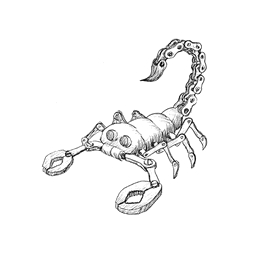
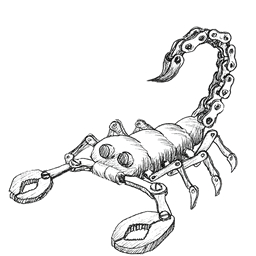
Rejected Draft v0.8731
* fixed new sketch to be Scrap instead of Rough
* tweaks to All Art Exhibit page
* added additional sketches for:
  *  Cat-Ear Girl

Changed region(s): [[0.0312, 0.0938, 0.9375, 1.0]]

diff --git a/rejected_draft/all_art_exhibit.html b/rejected_draft/all_art_exhibit.html
@@ -7,10 +7,10 @@
   <meta name="viewport" content="width=device-width, initial-scale=1.0" />
   <meta name="description" content="A full reference exhibit of Rejected Draft sketch art versions and artist credits." />
   <title>All Art Exhibit | Rejected Draft</title>
-  <script type="module" crossorigin src="/rejected_draft/assets/all_art_exhibit-DHjlpOYw.js"></script>
-  <link rel="modulepreload" crossorigin href="/rejected_draft/assets/artistLinks-D57jD4-Z.js">
+  <script type="module" crossorigin src="/rejected_draft/assets/all_art_exhibit-CifY37Fp.js"></script>
+  <link rel="modulepreload" crossorigin href="/rejected_draft/assets/artistLinks-Ci6iL28V.js">
   <link rel="stylesheet" crossorigin href="/rejected_draft/assets/artistLinks-BkC4TFmO.css">
-  <link rel="stylesheet" crossorigin href="/rejected_draft/assets/all_art_exhibit-M2AhFo1B.css">
+  <link rel="stylesheet" crossorigin href="/rejected_draft/assets/all_art_exhibit-BFmMpooR.css">
 </head>
 
 <body>

diff --git a/rejected_draft/index.html b/rejected_draft/index.html
@@ -24,8 +24,8 @@
     gtag('config', 'G-H7T7HJ1VSM');
   </script>
   <title>Rejected Draft</title>
-  <script type="module" crossorigin src="/rejected_draft/assets/main-CnqVbCoy.js"></script>
-  <link rel="modulepreload" crossorigin href="/rejected_draft/assets/artistLinks-D57jD4-Z.js">
+  <script type="module" crossorigin src="/rejected_draft/assets/main-CNIFlPIz.js"></script>
+  <link rel="modulepreload" crossorigin href="/rejected_draft/assets/artistLinks-Ci6iL28V.js">
   <link rel="stylesheet" crossorigin href="/rejected_draft/assets/artistLinks-BkC4TFmO.css">
   <link rel="stylesheet" crossorigin href="/rejected_draft/assets/main-BZV40eAE.css">
 </head>

diff --git a/rejected_draft/assets/all_art_exhibit-BFmMpooR.css b/rejected_draft/assets/all_art_exhibit-BFmMpooR.css
@@ -1,0 +1,1 @@
+.all-art-exhibit{height:100vh;min-height:100vh;overflow-y:auto;background:#f5f5f5;color:#171717}.exhibit-shell{width:min(100%,1440px);margin:0 auto;padding:18px}.exhibit-heading{display:flex;align-items:center;justify-content:space-between;gap:16px;margin-bottom:14px}.exhibit-title{margin:0;font-family:Architects Daughter,Inter,ui-sans-serif,system-ui,sans-serif;font-size:clamp(1.75rem,3vw,3rem);line-height:1;letter-spacing:0}.exhibit-style-picker{display:flex;flex-wrap:wrap;justify-content:flex-end;gap:6px}.exhibit-style-picker button{min-height:34px;border:1px solid #d4d4d4;background:#fff;color:#404040;padding:7px 10px;font-size:.75rem;font-weight:900;text-transform:uppercase;cursor:pointer}.exhibit-style-picker button:hover,.exhibit-style-picker button:focus-visible{border-color:#737373;outline:none}.exhibit-style-picker button.active{border-color:#0f766e;background:#0f766e;color:#fff}.exhibit-style-dark-original .exhibit-style-picker button.active,.exhibit-style-dark-inverted .exhibit-style-picker button.active,.exhibit-style-blueprint .exhibit-style-picker button.active,.exhibit-style-ember .exhibit-style-picker button.active{border-color:#14b8a6;background:#0f766e;color:#fff}.exhibit-controls{display:grid;grid-template-columns:minmax(180px,1fr) minmax(180px,1fr) minmax(140px,180px) minmax(140px,180px) auto;gap:10px;align-items:end;margin-bottom:14px;padding:12px;border:1px solid #d4d4d4;background:#fff}.exhibit-counts{display:grid;grid-template-columns:repeat(2,minmax(74px,1fr));gap:8px}.exhibit-count{border:1px solid #d4d4d4;background:#fafafa;padding:8px 10px}.exhibit-count strong{display:block;font-size:1.45rem;line-height:1}.exhibit-count span{display:block;margin-top:3px;color:#737373;font-size:.68rem;font-weight:800;text-transform:uppercase}.exhibit-field{display:grid;gap:4px}.exhibit-field span{color:#737373;font-size:.68rem;font-weight:900;letter-spacing:.04em;text-transform:uppercase}.exhibit-field input,.exhibit-field select{width:100%;height:42px;border:1px solid #d4d4d4;background:#fff;color:#171717;padding:0 10px;font:inherit;font-size:.9rem;font-weight:650;outline:none}.exhibit-field input:focus,.exhibit-field select:focus{border-color:#0f766e;box-shadow:0 0 0 2px #0f766e2e}.exhibit-grid{display:grid;grid-auto-flow:dense;grid-template-columns:repeat(4,minmax(0,1fr));gap:12px;align-items:start}.exhibit-sketch{grid-column:span var(--span-desktop);border:1px solid #d4d4d4;background:#fff}.exhibit-sketch-header{display:flex;align-items:baseline;justify-content:space-between;gap:10px;padding:12px;border-bottom:1px solid #e5e5e5}.exhibit-sketch-header h2{margin:0;color:#171717;font-size:1.1rem;font-weight:950;line-height:1;text-transform:uppercase}.exhibit-sketch-header span{flex:0 0 auto;color:#737373;font-size:.68rem;font-weight:900;text-transform:uppercase}.exhibit-versions{display:grid;grid-template-columns:repeat(var(--inner-desktop),minmax(0,1fr));gap:10px;padding:10px}.exhibit-version{display:grid;grid-template-rows:auto 1fr;border:1px solid #e5e5e5;background:#fafafa}.exhibit-image{aspect-ratio:1;background:#e5e5e5;padding:12px}.exhibit-image img{width:100%;height:100%;-o-object-fit:contain;object-fit:contain;mix-blend-mode:multiply}.exhibit-style-dark-original{background:#111716}.exhibit-style-dark-original .exhibit-title,.exhibit-style-dark-inverted .exhibit-title,.exhibit-style-blueprint .exhibit-title,.exhibit-style-ember .exhibit-title{color:#f5f5f5}.exhibit-style-dark-original .exhibit-controls,.exhibit-style-dark-original .exhibit-sketch,.exhibit-style-dark-original .exhibit-empty{border-color:#33403d;background:#1b2422}.exhibit-style-dark-original .exhibit-sketch-header,.exhibit-style-dark-original .exhibit-version,.exhibit-style-dark-original .exhibit-count,.exhibit-style-dark-original .exhibit-field input,.exhibit-style-dark-original .exhibit-field select,.exhibit-style-dark-original .exhibit-style-picker button{border-color:#33403d;background:#121817;color:#f5f5f5}.exhibit-style-dark-original .exhibit-sketch-header h2,.exhibit-style-dark-original .exhibit-credit-name{color:#f5f5f5}.exhibit-style-dark-original .exhibit-image{background:#f5f5f5}.exhibit-style-dark-original .exhibit-credit p{color:#c7d0cc}.exhibit-style-dark-original .exhibit-image img{mix-blend-mode:multiply}.exhibit-style-dark-inverted{background:#09090b}.exhibit-style-dark-inverted .exhibit-controls,.exhibit-style-dark-inverted .exhibit-sketch,.exhibit-style-dark-inverted .exhibit-empty{border-color:#262626;background:#171717}.exhibit-style-dark-inverted .exhibit-sketch-header,.exhibit-style-dark-inverted .exhibit-version,.exhibit-style-dark-inverted .exhibit-count,.exhibit-style-dark-inverted .exhibit-field input,.exhibit-style-dark-inverted .exhibit-field select,.exhibit-style-dark-inverted .exhibit-style-picker button{border-color:#333;background:#0f0f0f;color:#f5f5f5}.exhibit-style-dark-inverted .exhibit-sketch-header h2,.exhibit-style-dark-inverted .exhibit-credit-name{color:#f5f5f5}.exhibit-style-dark-inverted .exhibit-credit p{color:#c7c7c7}.exhibit-style-dark-inverted .exhibit-image{background:#050505}.exhibit-style-dark-inverted .exhibit-image img{filter:invert(1) hue-rotate(180deg) brightness(.95);mix-blend-mode:screen}.exhibit-style-blueprint{background:#07131f}.exhibit-style-blueprint .exhibit-controls,.exhibit-style-blueprint .exhibit-sketch,.exhibit-style-blueprint .exhibit-empty{border-color:#1e5a78;background:#0b2030}.exhibit-style-blueprint .exhibit-sketch-header,.exhibit-style-blueprint .exhibit-version,.exhibit-style-blueprint .exhibit-count,.exhibit-style-blueprint .exhibit-field input,.exhibit-style-blueprint .exhibit-field select,.exhibit-style-blueprint .exhibit-style-picker button{border-color:#1e5a78;background:#081826;color:#dff7ff}.exhibit-style-blueprint .exhibit-sketch-header h2,.exhibit-style-blueprint .exhibit-credit-name{color:#e8fbff}.exhibit-style-blueprint .exhibit-credit p{color:#b5dfec}.exhibit-style-blueprint .exhibit-image{background:#07131f}.exhibit-style-blueprint .exhibit-image img{filter:invert(1) sepia(1) saturate(4) hue-rotate(155deg) brightness(1.4) contrast(1.15);mix-blend-mode:screen}.exhibit-style-ember{background:#1c1110}.exhibit-style-ember .exhibit-controls,.exhibit-style-ember .exhibit-sketch,.exhibit-style-ember .exhibit-empty{border-color:#704431;background:#261714}.exhibit-style-ember .exhibit-sketch-header,.exhibit-style-ember .exhibit-version,.exhibit-style-ember .exhibit-count,.exhibit-style-ember .exhibit-field input,.exhibit-style-ember .exhibit-field select,.exhibit-style-ember .exhibit-style-picker button{border-color:#704431;background:#160d0b;color:#fff0dc}.exhibit-style-ember .exhibit-sketch-header h2,.exhibit-style-ember .exhibit-credit-name{color:#fff0dc}.exhibit-style-ember .exhibit-credit p{color:#e9c9aa}.exhibit-style-ember .exhibit-image{background:#180c08}.exhibit-style-ember .exhibit-image img{filter:invert(1) sepia(1) saturate(3) hue-rotate(330deg) brightness(1.15) contrast(1.25);mix-blend-mode:screen}.exhibit-credit{display:grid;gap:6px;align-content:start;min-height:94px;padding:10px}.exhibit-credit p{margin:0;color:#525252;font-family:Crimson Text,Georgia,serif;font-size:.875rem;font-style:italic;line-height:1.25}.exhibit-credit-label{color:#a3a3a3;font-size:.64rem;font-weight:950;letter-spacing:.08em;text-transform:uppercase}.exhibit-credit-name,.exhibit-credit a{display:inline;color:#171717;overflow-wrap:anywhere;font-size:1rem;font-weight:950;font-style:italic;line-height:1.1}.exhibit-credit a{color:#0369a1;text-decoration:underline;text-decoration-color:#0369a159;text-underline-offset:3px}.exhibit-credit a:hover,.exhibit-credit a:focus-visible{color:#0c4a6e;outline:none}.exhibit-empty{border:1px solid #d4d4d4;background:#fff;padding:42px 20px;text-align:center}.exhibit-empty h2{margin:0;font-size:1.2rem;font-weight:950;text-transform:uppercase}.exhibit-empty p{margin:6px 0 0;color:#737373}@media(max-width:1180px){.exhibit-grid{grid-template-columns:repeat(3,minmax(0,1fr))}.exhibit-sketch{grid-column:span var(--span-large)}.exhibit-versions{grid-template-columns:repeat(var(--inner-large),minmax(0,1fr))}}@media(max-width:880px){.exhibit-shell{padding:12px}.exhibit-controls{grid-template-columns:1fr 1fr}.exhibit-heading{align-items:flex-start;flex-direction:column}.exhibit-style-picker{justify-content:flex-start}.exhibit-counts{grid-column:1 / -1}.exhibit-grid{grid-template-columns:repeat(2,minmax(0,1fr))}.exhibit-sketch{grid-column:span var(--span-medium)}.exhibit-versions{grid-template-columns:repeat(var(--inner-medium),minmax(0,1fr))}}@media(max-width:560px){.exhibit-controls,.exhibit-grid{grid-template-columns:1fr}.exhibit-sketch{grid-column:span 1}.exhibit-versions{grid-template-columns:1fr}}

diff --git a/rejected_draft/assets/all_art_exhibit-CifY37Fp.js b/rejected_draft/assets/all_art_exhibit-CifY37Fp.js
@@ -1,0 +1,1 @@
+import{c as o,j as e,b as A,i as C,h as E,E as T,A as k,p as L,o as I}from"./artistLinks-Ci6iL28V.js";const R=()=>{const s="/rejected_draft/";return s.endsWith("/")?s:`${s}/`},g=(s,i)=>T[s]??i,_=s=>{if(s.startsWith("data:"))return s;const i=s.startsWith("/")?s.slice(1):s;return`${R()}${i}`},m=s=>s.trim().toLowerCase(),$=new Set(["<placeholder - replace>"]),M=s=>{const i=k[s];return i&&i!==L?i:void 0},V=()=>A.map(s=>{const i=s.id.toUpperCase().replace(/\s/g,"_"),a=g(`SKETCH_${i}_NAME`,s.name),c=s.artist.map((n,d)=>{const h=g(C(s,d),s.flavorText[d]??s.flavorText[0]??""),j=_(E(s.imagePath,d,s.artist.length));return{index:d,artist:n,artistLink:M(n),flavorText:h,imageUrl:j}}).filter(n=>!$.has(n.artist));return{id:s.id,name:a,searchName:m(a.replace(/\(\*\)/g,"")),artistsSearch:m(c.map(n=>n.artist).join(" ")),rarity:s.rarity,versionCount:c.length,versions:c}}).filter(s=>s.versionCount>0).sort((s,i)=>s.name.localeCompare(i.name)),U=(s,i)=>i==="placeholders"?s.versions.some(a=>a.artist.includes("placeholder")):typeof i=="number"?s.versionCount===i:!0,D=["any","scrap","rough","framed","opus","masterpiece"],F=[{id:"light-original",label:"Light - Original"},{id:"dark-original",label:"Dark - Original"},{id:"dark-inverted",label:"Dark - Inverted"},{id:"blueprint",label:"Blueprint"},{id:"ember",label:"Ember"}],K=s=>{const i=Math.min(s,4),a=Math.min(s,3),c=Math.min(s,2);return{"--span-desktop":i,"--span-large":a,"--span-medium":c,"--inner-desktop":i,"--inner-large":a,"--inner-medium":c}},P=(s,i)=>i?s.versions.filter(a=>m(a.artist).includes(i)):s.versions,Q=()=>{const[s,i]=o.useState(""),[a,c]=o.useState(""),[n,d]=o.useState("any"),[h,j]=o.useState("any"),[v,y]=o.useState("dark-original"),x=o.useMemo(()=>V(),[]),S=o.useMemo(()=>Array.from(new Set(x.map(t=>t.versionCount))).sort((t,r)=>t-r),[x]),b=m(s),u=m(a),p=o.useMemo(()=>x.filter(t=>{const r=!b||t.searchName.includes(b),l=!u||t.artistsSearch.includes(u),f=h==="any"||t.rarity===h;return r&&l&&f&&U(t,n)}),[x,u,b,h,n]),N=p.reduce((t,r)=>t+r.versionCount,0);return e.jsx("main",{className:`all-art-exhibit exhibit-style-${v}`,children:e.jsxs("div",{className:"exhibit-shell",children:[e.jsxs("div",{className:"exhibit-heading",children:[e.jsx("h1",{className:"exhibit-title",children:"Rejected Draft All Art Exhibit"}),e.jsx("div",{className:"exhibit-style-picker","aria-label":"Image display style",children:F.map(t=>e.jsx("button",{type:"button",onClick:()=>y(t.id),className:v===t.id?"active":"",children:t.label},t.id))})]}),e.jsxs("div",{className:"exhibit-controls",children:[e.jsxs("label",{className:"exhibit-field",children:[e.jsx("span",{children:"Sketch name"}),e.jsx("input",{value:s,onChange:t=>i(t.target.value),placeholder:"Search sketch names"})]}),e.jsxs("label",{className:"exhibit-field",children:[e.jsx("span",{children:"Artist"}),e.jsx("input",{value:a,onChange:t=>c(t.target.value),placeholder:"Search artist names"})]}),e.jsxs("label",{className:"exhibit-field",children:[e.jsx("span",{children:"Versions"}),e.jsxs("select",{value:n,onChange:t=>{const r=t.target.value;d(r==="any"||r==="placeholders"?r:Number(r))},children:[e.jsx("option",{value:"any",children:"Any"}),e.jsx("option",{value:"placeholders",children:"Placeholders"}),S.map(t=>e.jsx("option",{value:t,children:t},t))]})]}),e.jsxs("label",{className:"exhibit-field",children:[e.jsx("span",{children:"Rarity"}),e.jsx("select",{value:h,onChange:t=>j(t.target.value),children:D.map(t=>e.jsx("option",{value:t,children:t==="any"?"Any":t.charAt(0).toUpperCase()+t.slice(1)},t))})]}),e.jsxs("div",{className:"exhibit-counts",children:[e.jsxs("div",{className:"exhibit-count",children:[e.jsx("strong",{children:p.length}),e.jsx("span",{children:"Sketches"})]}),e.jsxs("div",{className:"exhibit-count",children:[e.jsx("strong",{children:N}),e.jsx("span",{children:"Versions"})]})]})]}),p.length===0?e.jsxs("div",{className:"exhibit-empty",children:[e.jsx("h2",{children:"No sketches found"}),e.jsx("p",{children:"Adjust the sketch, artist, or version-count filters."})]}):e.jsx("div",{className:"exhibit-grid",children:p.map(t=>(()=>{const r=P(t,u);return e.jsxs("article",{className:"exhibit-sketch",style:K(r.length),children:[e.jsxs("header",{className:"exhibit-sketch-header",children:[e.jsx("h2",{children:t.name}),e.jsxs("span",{children:[t.versionCount," ",t.versionCount===1?"version":"versions"]})]}),e.jsx("div",{className:"exhibit-versions",children:r.map(l=>e.jsxs("div",{className:"exhibit-version",children:[e.jsx("div",{className:"exhibit-image",children:e.jsx("img",{loading:"lazy",src:l.imageUrl,alt:`${t.name} by ${l.artist}`})}),e.jsxs("div",{className:"exhibit-credit",children:[e.jsx("p",{children:l.flavorText}),e.jsxs("div",{children:[e.jsx("div",{className:"exhibit-credit-label",children:"Artist"}),l.artistLink?e.jsx("a",{href:l.artistLink,target:"_blank",rel:"noreferrer",children:l.artist}):e.jsx("div",{className:"exhibit-credit-name",children:l.artist})]})]})]},`${t.id}-${l.index}`))})]},t.id)})())})]})})};I.createRoot(document.getElementById("root")).render(e.jsx(Q,{}));